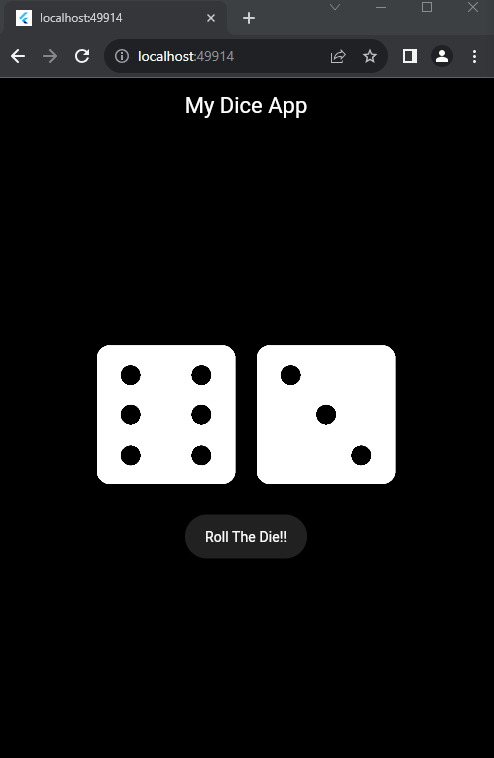
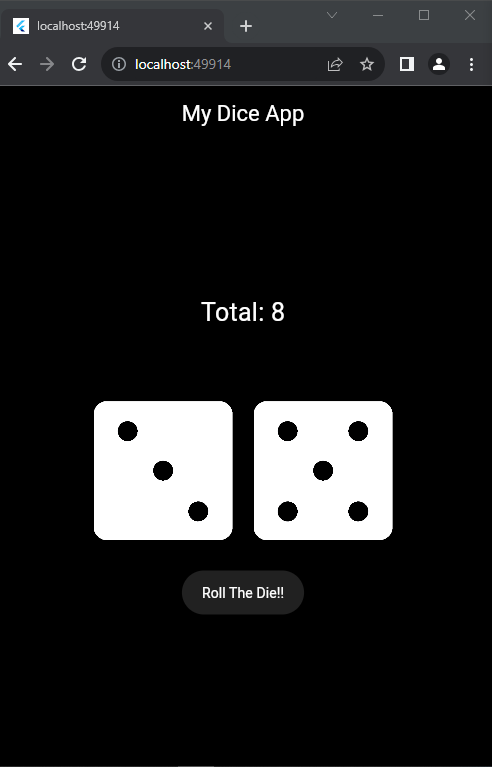
Included a text to show the total of the 2 dice.

diff --git a/lib/dice_roller.dart b/lib/dice_roller.dart
@@ -4,6 +4,7 @@ import 'dart:math';
 class DiceRoller extends StatefulWidget {
   const DiceRoller({super.key});
 
+  @override
   State<DiceRoller> createState() {
     return _DiceRollerState();
   }
@@ -14,10 +15,23 @@ final randomizer = Random();
 class _DiceRollerState extends State<DiceRoller> {
   var dice1ImageN = randomizer.nextInt(6) + 1;
   var dice2ImageN = randomizer.nextInt(6) + 1;
+  late int total;
+
+  @override
+  void initState() {
+    super.initState();
+    innititalizeTotal();
+  }
+
+  void innititalizeTotal() {
+    total = dice1ImageN + dice2ImageN;
+  }
+
   void changeDice() {
     setState(() {
       dice1ImageN = randomizer.nextInt(6) + 1;
       dice2ImageN = randomizer.nextInt(6) + 1;
+      total = dice1ImageN + dice2ImageN;
     });
   }
 
@@ -26,6 +40,16 @@ class _DiceRollerState extends State<DiceRoller> {
     return Column(
       mainAxisAlignment: MainAxisAlignment.center,
       children: [
+        Text(
+          "Total: $total",
+          style: const TextStyle(
+            fontSize: 25,
+            color: Colors.white,
+          ),
+        ),
+        const SizedBox(
+          height: 60,
+        ),
         Row(
           mainAxisAlignment: MainAxisAlignment.center,
           children: [
